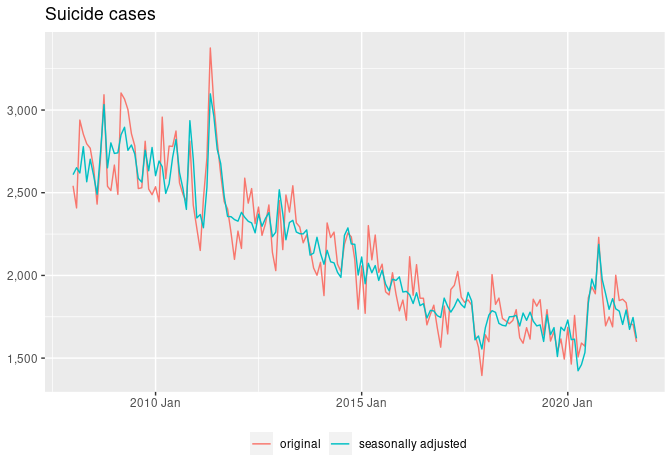
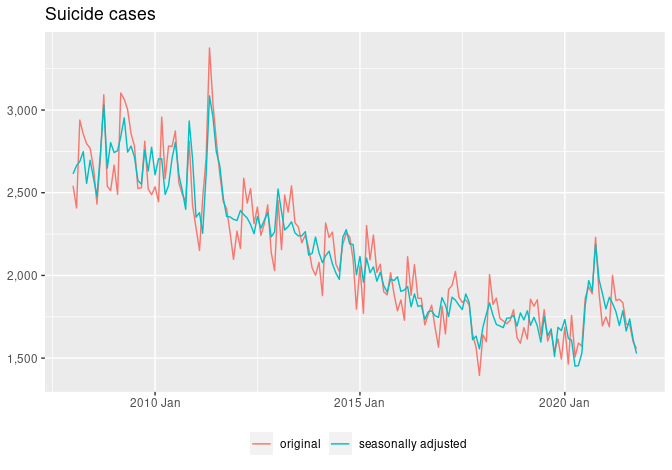
preliminary October 2021 cases

Changed region(s): [[0.0938, 0.1489, 0.9688, 0.8043], [0.7812, 0.834, 0.875, 0.8638], [0.5, 0.834, 0.5938, 0.8638]]

diff --git a/README.md b/README.md
@@ -10,7 +10,7 @@ Mitsuo Shiota
 -   [Suicide cases are bouncing back, but not as fast as the program
     suggests](#suicide-cases-are-bouncing-back-but-not-as-fast-as-the-program-suggests)
 
-Updated: 2021-10-21
+Updated: 2021-11-13
 
 ## Motivation
 
